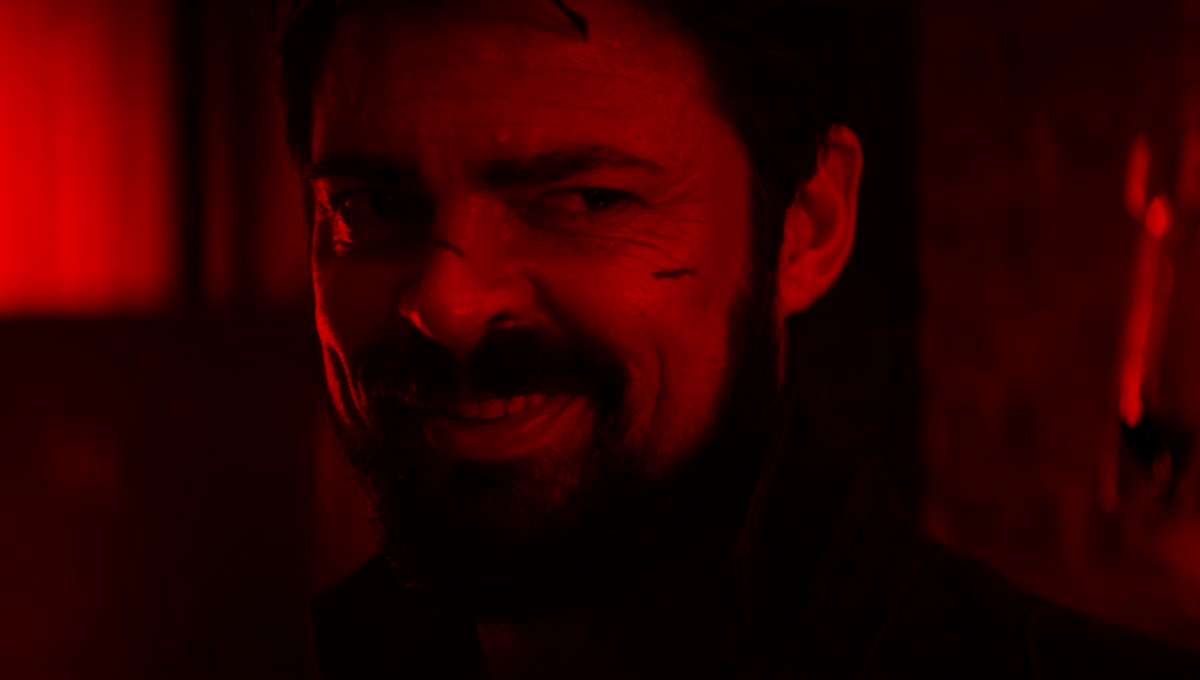
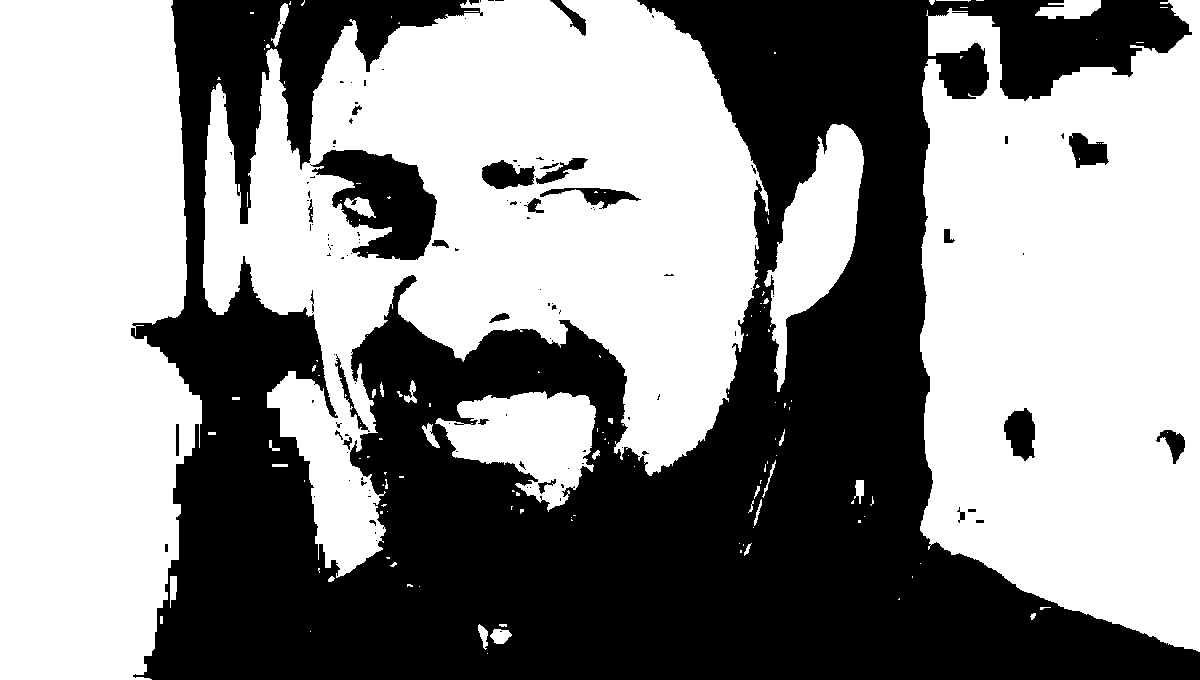
added some functions

diff --git a/Design_PhotoProcessing.py b/Design_PhotoProcessing.py
@@ -1,3 +1,13 @@
+# -*- coding: utf-8 -*-
+
+# Form implementation generated from reading ui file 'supadesign.ui'
+#
+# Created by: PyQt5 UI code generator 5.15.1
+#
+# WARNING: Any manual changes made to this file will be lost when pyuic5 is
+# run again.  Do not edit this file unless you know what you are doing.
+
+
 from PyQt5 import QtCore, QtGui, QtWidgets
 
 
@@ -26,7 +36,6 @@ class Ui_MainWindow(object):
         self.image.setObjectName("image")
         self.Slider = QtWidgets.QSlider(self.centralwidget)
         self.Slider.setEnabled(True)
-        self.Slider.setVisible(False)
         self.Slider.setGeometry(QtCore.QRect(20, 620, 981, 31))
         palette = QtGui.QPalette()
         brush = QtGui.QBrush(QtGui.QColor(0, 0, 0))
@@ -177,6 +186,7 @@ class Ui_MainWindow(object):
         self.Slider.setLayoutDirection(QtCore.Qt.LeftToRight)
         self.Slider.setOrientation(QtCore.Qt.Horizontal)
         self.Slider.setObjectName("Slider")
+        self.Slider.setVisible(False)
         MainWindow.setCentralWidget(self.centralwidget)
         self.menubar = QtWidgets.QMenuBar(MainWindow)
         self.menubar.setGeometry(QtCore.QRect(0, 0, 1017, 21))
@@ -283,6 +293,8 @@ class Ui_MainWindow(object):
         self.actionCurvies.setObjectName("actionCurvies")
         self.BnW = QtWidgets.QAction(MainWindow)
         self.BnW.setObjectName("BnW")
+        self.All = QtWidgets.QAction(MainWindow)
+        self.All.setObjectName("All")
         self.menuOpen_File.addAction(self.actionOpen)
         self.menuOpen_File.addAction(self.actionNew)
         self.menuOpen_File.addSeparator()
@@ -291,6 +303,7 @@ class Ui_MainWindow(object):
         self.menuJust_Blue.addAction(self.Redder)
         self.menuJust_Blue.addAction(self.Greener)
         self.menuJust_Blue.addAction(self.Bluer)
+        self.menuJust_Blue.addAction(self.All)
         self.menuFilters.addAction(self.BnW)
         self.menuFilters.addAction(self.Sepia)
         self.menuFilters.addAction(self.Negative)
@@ -335,10 +348,8 @@ class Ui_MainWindow(object):
     def retranslateUi(self, MainWindow):
         _translate = QtCore.QCoreApplication.translate
         MainWindow.setWindowTitle(_translate("MainWindow", "MainWindow"))
-        self.image.setToolTip(
-            _translate("MainWindow", "<html><head/><body><p><img src=\":/images/newFile.png\"/></p></body></html>"))
-        self.image.setWhatsThis(
-            _translate("MainWindow", "<html><head/><body><p><img src=\":/images/newFile.png\"/></p></body></html>"))
+        self.image.setToolTip(_translate("MainWindow", "<html><head/><body><p><img src=\":/images/newFile.png\"/></p></body></html>"))
+        self.image.setWhatsThis(_translate("MainWindow", "<html><head/><body><p><img src=\":/images/newFile.png\"/></p></body></html>"))
         self.menuOpen_File.setTitle(_translate("MainWindow", "File"))
         self.menuFilters.setTitle(_translate("MainWindow", "Filters"))
         self.menuJust_Blue.setTitle(_translate("MainWindow", "Colors"))
@@ -388,11 +399,11 @@ class Ui_MainWindow(object):
         self.actionText.setText(_translate("MainWindow", "Text"))
         self.actionCurvies.setText(_translate("MainWindow", "Curvies"))
         self.BnW.setText(_translate("MainWindow", "Black\'n\'White"))
+        self.All.setText(_translate("MainWindow", "All"))
 
 
 if __name__ == "__main__":
     import sys
-
     app = QtWidgets.QApplication(sys.argv)
     MainWindow = QtWidgets.QMainWindow()
     ui = Ui_MainWindow()

diff --git a/PhotoEditor.py b/PhotoEditor.py
@@ -18,6 +18,9 @@ class MyWidget(QMainWindow, Ui_MainWindow):
         self.Greener.triggered.connect(self.justGreen)
         self.Bluer.triggered.connect(self.justBlue)
         self.Negative.triggered.connect(self.nnegative)
+        self.All.triggered.connect(self.all)
+        self.actionCurvies.triggered.connect(self.Inbright)
+        self.BnW.triggered.connect(self.blwh)
 
     def openFile(self):
         self.filename = QFileDialog.getOpenFileName(self, 'Выберите картинку', '')[0]
@@ -65,15 +68,61 @@ class MyWidget(QMainWindow, Ui_MainWindow):
         self.pic.save('freeFile.png')
         self.image.setPixmap(QPixmap('freeFile.png'))
 
+    def all(self):
+        self.pic = self.mainimg.copy()
+        pixels = self.pic.load()
+        for i in range(self.x):
+            for j in range(self.y):
+                r, g, b = pixels[i, j]
+                pixels[i, j] = 0, 0, b
+        self.pic.save('freeFile.png')
+        self.image.setPixmap(QPixmap('freeFile.png'))
+
     def nnegative(self):
         self.pic = self.mainimg.copy()
         pixels = self.pic.load()
         for i in range(self.x):
             for j in range(self.y):
                 r, g, b = pixels[i, j]
-                pixels[i, j] = r, 0, 0
+                pixels[i, j] = 255 - r, 255 - g, 255 - b
         self.pic.save('freeFile.png')
         self.image.setPixmap(QPixmap('freeFile.png'))
+
+    def Inbright(self):
+        self.pic = self.mainimg.copy()
+        pixels = self.pic.load()
+        for i in range(self.x):
+            for j in range(self.y):
+                pixels[i, j] = curve(pixels[i, j])
+
+    def blwh(self):
+        brightness, ok = QInputDialog.getInt(self, "Input Brightness", 'What brightness do you want to use?', 2, 1, 15,
+                                             1)
+        separator = 255 / brightness / 2 * 3
+        self.pic = self.mainimg.copy()
+        pixels = self.pic.load()
+        for i in range(self.x):
+            for j in range(self.y):
+                r, g, b = pixels[i, j]
+                total = r + g + b
+                if total > separator:
+                    self.pic.putpixel((i, j), (255, 255, 255))
+                else:
+                    self.pic.putpixel((i, j), (0, 0, 0))
+        self.pic.save('freeFile.png')
+        self.image.setPixmap(QPixmap('freeFile.png'))
+
+
+def curve(pixel):
+    r, g, b = pixel
+    brightness = r + g + b
+    if brightness < 60:
+        k = 60 / (brightness + 1)
+        return min(255, int(r * k ** 2)), \
+               min(255, int(g * k ** 2)), \
+               min(255, int(b * k ** 2))
+    else:
+        return r, g, b
 
 
 def except_hook(cls, exception, traceback):
